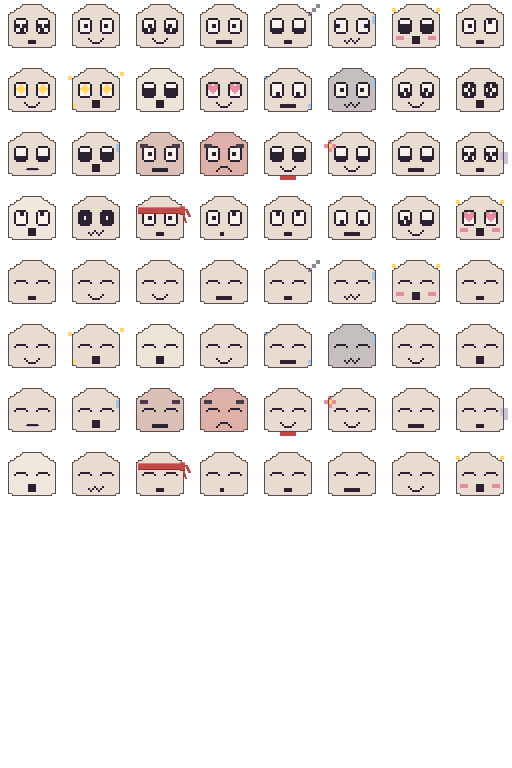
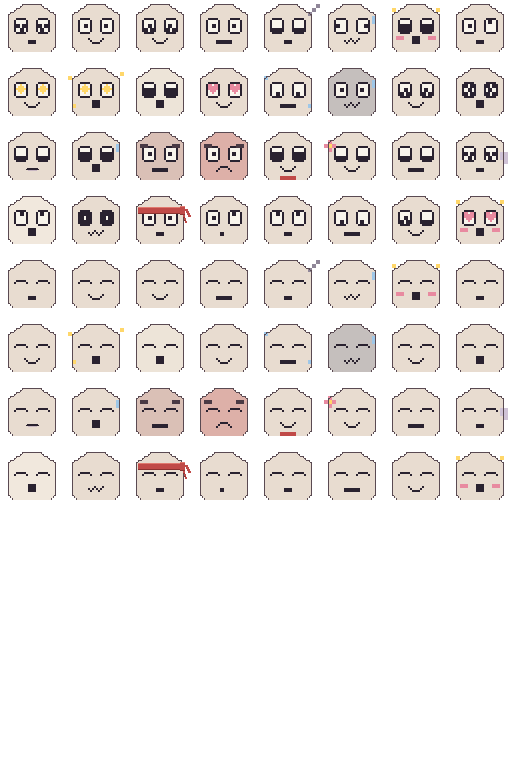
feat: deeper body, open hem - one continuous boundary with the skirt
The body runs one 16-row deeper (breathing room below the mouth), the hem
rounds with a softer tuck, and its bottom edge is NOT traced: arms flow
out of an open hem, with the renderer closing the boundary only in the
gaps between arm roots.

diff --git a/scripts/gen-sepia.js b/scripts/gen-sepia.js
@@ -39,13 +39,15 @@ const BASE16 = [
   "..obbbbbbbbbbo..",
   "..obbbbbbbbbbo..",
   "..obbbbbbbbbbo..",
-  "................",
+  "..obbbbbbbbbbo..",
   "................",
   "................",
   "................"
 ];
-// (the arm stubs left the sheet in v0.24.0 — the renderer draws three longer arms that
-// sway independently, the way the fins went liquid in v0.21.0)
+// (the arm stubs left the sheet in v0.24.0 — the renderer draws the arm skirt. The body
+// runs one 16-row deeper since v0.25.0: breathing room below the mouth, and the hem's
+// bottom edge is NOT traced — the renderer closes the boundary only in the gaps between
+// arms, so body and skirt share one continuous line.)
 const B32 = [];
 BASE16.forEach(r => { const d = r.split("").map(c => c + c).join(""); B32.push(d.split("")); B32.push(d.split("")); });
 const PB = (y, x, c) => { B32[y][x] = c; };
@@ -54,7 +56,8 @@ PB(4, 6, "."); PB(4, 7, "."); PB(4, 24, "."); PB(4, 25, ".");  // second step in
 PB(5, 6, "."); PB(5, 25, ".");
 PB(6, 4, "."); PB(6, 6, "o"); PB(6, 7, "o");                   // sloped shoulder joins the flank
 PB(6, 27, "."); PB(6, 24, "o"); PB(6, 25, "o");
-PB(23, 4, "."); PB(23, 5, "."); PB(23, 26, "."); PB(23, 27, ".");   // the hem rounds — the body ends in a soft tuck; arms hang from it, renderer-drawn
+PB(24, 4, "."); PB(24, 27, ".");                               // the hem rounds — the body ends in a soft tuck; arms flow from it, renderer-drawn
+PB(25, 4, "."); PB(25, 5, "."); PB(25, 26, "."); PB(25, 27, ".");
 const BASE = B32.map(r => r.join(""));
 // Fin frills are an expression channel, not anatomy furniture: straight side bars read
 // as arms (the maintainer's flicker, round two), but fins that flare, ripple, droop, and
@@ -264,7 +267,7 @@ MOODS.forEach((mood, i) => { for (let frame = 0; frame < 2; frame++) {
       if (!solid(gx - 1, gy)) frect(rx, ry, 1, 2, EDGE);
       if (!solid(gx + 1, gy)) frect(rx + 1, ry, 1, 2, EDGE);
       if (!solid(gx, gy - 1)) frect(rx, ry, 2, 1, EDGE);
-      if (!solid(gx, gy + 1)) frect(rx, ry + 1, 2, 1, EDGE);
+      if (!solid(gx, gy + 1) && gy < 24) frect(rx, ry + 1, 2, 1, EDGE);   // the hem's bottom edge is NOT baked — arms flow out of it; the renderer closes the gaps
     }
   }
 